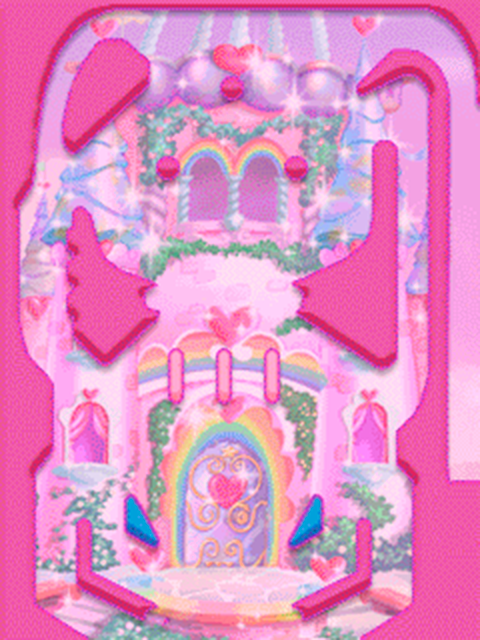
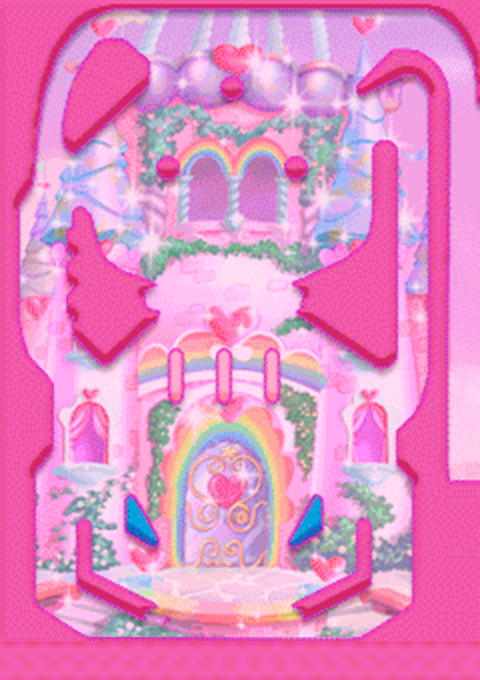
Score changes, clean up done and mouse joint done

diff --git a/Pinball/ModuleSceneIntro.cpp b/Pinball/ModuleSceneIntro.cpp
@@ -19,7 +19,6 @@ ModuleSceneIntro::ModuleSceneIntro(Application* app, bool start_enabled) : Modul
 	sHeart = SDL_Rect{ 274,277,24,24 };
 	sBarrier = SDL_Rect{ 41,0,18,46 };
 	sBluePoint = SDL_Rect{ 68,48,16,16 };
-	circle = box = rick = NULL;
 	ray_on = false;
 	sensed = false;
 }
@@ -35,24 +34,21 @@ bool ModuleSceneIntro::Start()
 
 	App->renderer->camera.x = App->renderer->camera.y = 0;
 
-	/*circle = App->textures->Load("pinball/wheel.png"); 
-	box = App->textures->Load("pinball/crate.png");
-	rick = App->textures->Load("pinball/rick_head.png");
-	bonus_fx = App->audio->LoadFx("pinball/bonus.wav");*/
 
 	background = App->textures->Load("pinball/Background.png");
 	spritesheet = App->textures->Load("pinball/Spritesheet.png");
 	spriteball = App->textures->Load("pinball/Spriteball.png");
+	scTexture = App->textures->Load("pinball/Score.png");
 	scoreFont = App->fonts->Load("pinball/font.png", "0123456789", 1);
 	playAgain = App->textures->Load("pinball/playAgain.png");
-	//sensor = App->physics->CreateRectangleSensor(SCREEN_WIDTH / 2, SCREEN_HEIGHT, SCREEN_WIDTH, 50);
+
 	ball = App->physics->CreateCircle(464, 400, 8);
 
 	hearts = 3;
 
-	sensorBluePoint1 = App->physics->CreateRectangleSensor(202, 378, 5, 5);
+	sensorBluePoint1 = App->physics->CreateRectangleSensor(200, 376, 5, 5);
 	sensorBluePoint1->listener = this;
-	sensorBluePoint2 = App->physics->CreateRectangleSensor(250, 378, 5, 5);
+	sensorBluePoint2 = App->physics->CreateRectangleSensor(248, 376, 5, 5);
 	sensorBluePoint2->listener = this;
 
 	//----------------------BUMPERS---------------------
@@ -193,7 +189,12 @@ bool ModuleSceneIntro::Start()
 bool ModuleSceneIntro::CleanUp()
 {
 	LOG("Unloading Intro scene");
-
+	App->textures->Unload(background);
+	App->textures->Unload(spritesheet);
+	App->textures->Unload(spriteball);
+	App->textures->Unload(scTexture);
+	App->textures->Unload(playAgain);
+	App->fonts->UnLoad(scoreFont);
 	return true;
 }
 
@@ -250,10 +251,20 @@ update_status ModuleSceneIntro::Update()
 			App->physics->RevoluteJointTopLeft.lowerAngle = -15 * DEGTORAD;
 
 		}
-		if (App->input->GetKey(SDL_SCANCODE_R) == KEY_REPEAT)
+
+		//input to restart a ball
+		if (App->input->GetKey(SDL_SCANCODE_R) == KEY_DOWN)
 		{
 			ball->body->GetWorld()->DestroyBody(ball->body);
 			ball = App->physics->CreateCircle(464, 400, 8);
+		}
+
+		//input to lose a heart
+		if (App->input->GetKey(SDL_SCANCODE_L) == KEY_DOWN)
+		{
+			ball->body->GetWorld()->DestroyBody(ball->body);
+			ball = App->physics->CreateCircle(464, 400, 8);
+			hearts=0;
 		}
 
 	}
@@ -262,13 +273,11 @@ update_status ModuleSceneIntro::Update()
 		{
 			hearts = 3;
 			nohearts = false;
+			if (score > highScore) highScore = score;
+			prevScore = score;
 			score = 0;
 		}
 	}
-
-	//Print Score
-	sprintf_s(scoreText, 10, "%1d", score);
-	App->fonts->BlitText(-15, 5, scoreFont, scoreText);
 
 	int Background[102] = {
 			480, 477,
@@ -489,8 +498,8 @@ update_status ModuleSceneIntro::Update()
 		280, 355,
 		272, 349,
 	};
-
-	if ((ball->body->GetPosition().x * 50) > 428) sceneElements.add(App->physics->CreateChain(0, 0, Background, 102));
+	
+	if (METERS_TO_PIXELS(ball->body->GetPosition().x) > 428) sceneElements.add(App->physics->CreateChain(0, 0, Background, 102));
 	else sceneElements.add(App->physics->CreateChain(0, 0, BackgroundBarrier, 88));
 	sceneElements.add(App->physics->CreateChain(0, 0, Background1, 26));
 	sceneElements.add(App->physics->CreateChain(0, 0, Background2, 38));
@@ -554,8 +563,23 @@ update_status ModuleSceneIntro::Update()
 	if (hearts==0)
 	{
 		App->renderer->Blit(playAgain, 40, 140);
+		App->fonts->BlitText(170, 265, scoreFont, scoreText);
 		nohearts = true;
 	}
+
+	//print score
+	App->renderer->Blit(scTexture, 0, 640);
+
+	sprintf_s(scoreText, 10, "%1d", score);
+	if (hearts != 0) App->fonts->BlitText(-15, 5, scoreFont, scoreText);
+	
+	sprintf_s(highScoreText, 10, "%1d", highScore);
+	App->fonts->BlitText(75, 649, scoreFont, highScoreText);
+	
+	sprintf_s(prevScoreText, 10, "%1d", prevScore);
+	App->fonts->BlitText(325, 649, scoreFont, prevScoreText);
+
+
 	// Prepare for raycast ------------------------------------------------------
 	
 	iPoint mouse;
@@ -564,35 +588,6 @@ update_status ModuleSceneIntro::Update()
 	int ray_hit = ray.DistanceTo(mouse);
 
 	fVector normal(0.0f, 0.0f);
-
-	// All draw functions ------------------------------------------------------
-	p2List_item<PhysBody*>* c = circles.getFirst();
-
-	while(c != NULL)
-	{
-		int x, y;
-		c->data->GetPosition(x, y);
-		if(c->data->Contains(App->input->GetMouseX(), App->input->GetMouseY()))
-			App->renderer->Blit(circle, x, y, NULL, 1.0f, c->data->GetRotation());
-		c = c->next;
-	}
-
-	c = boxes.getFirst();
-
-	while(c != NULL)
-	{
-		int x, y;
-		c->data->GetPosition(x, y);
-		App->renderer->Blit(box, x, y, NULL, 1.0f, c->data->GetRotation());
-		if(ray_on)
-		{
-			int hit = c->data->RayCast(ray.x, ray.y, mouse.x, mouse.y, normal.x, normal.y);
-			if(hit >= 0)
-				ray_hit = hit;
-		}
-		c = c->next;
-	}
-
 
 	//// ray -----------------
 	if(ray_on == true)
@@ -607,12 +602,6 @@ update_status ModuleSceneIntro::Update()
 			App->renderer->DrawLine(ray.x + destination.x, ray.y + destination.y, ray.x + destination.x + normal.x * 25.0f, ray.y + destination.y + normal.y * 25.0f, 100, 255, 100);
 	}
 
-	return UPDATE_CONTINUE;
-}
-
-update_status ModuleSceneIntro::PostUpdate()
-{
-	
 	return UPDATE_CONTINUE;
 }
 

diff --git a/Pinball/ModulePhysics.cpp b/Pinball/ModulePhysics.cpp
@@ -293,7 +293,7 @@ PhysBody* ModulePhysics::CreateStaticCircle(int x, int y, int radius)
 	body.type = b2_staticBody;
 	body.position.Set(PIXEL_TO_METERS(x), PIXEL_TO_METERS(y));
 
-	joint1 = world->CreateBody(&body);
+	Joint1 = world->CreateBody(&body);
 
 	b2CircleShape shape;
 	shape.m_radius = PIXEL_TO_METERS(radius);
@@ -301,11 +301,11 @@ PhysBody* ModulePhysics::CreateStaticCircle(int x, int y, int radius)
 	fixture.shape = &shape;
 	fixture.density = 1.0f;
 
-	joint1->CreateFixture(&fixture);
+	Joint1->CreateFixture(&fixture);
 
 	PhysBody* pbody = new PhysBody();
-	pbody->body = joint1;
-	joint1->SetUserData(pbody);
+	pbody->body = Joint1;
+	Joint1->SetUserData(pbody);
 	pbody->width = pbody->height = radius;
 
 	return pbody;
@@ -322,6 +322,8 @@ update_status ModulePhysics::PostUpdate()
 
 	// Bonus code: this will iterate all objects in the world and draw the circles
 	// You need to provide your own macro to translate meters to pixels
+
+	b2Vec2 mousePosition(PIXEL_TO_METERS(App->input->GetMouseX()), PIXEL_TO_METERS(App->input->GetMouseY()));
 	for(b2Body* b = world->GetBodyList(); b; b = b->GetNext())
 	{
 		for(b2Fixture* f = b->GetFixtureList(); f; f = f->GetNext())
@@ -389,10 +391,13 @@ update_status ModulePhysics::PostUpdate()
 				}
 				break;
 			}
-
 			// TODO 1: If mouse button 1 is pressed ...
 			// App->input->GetMouseButton(SDL_BUTTON_LEFT) == KEY_DOWN
 			// test if the current body contains mouse position
+			if (App->input->GetMouseButton(SDL_BUTTON_LEFT) == KEY_DOWN && bodyClicked == nullptr && f->GetShape()->TestPoint(b->GetTransform(), mousePosition))
+			{
+				bodyClicked = b;
+			}
 		}
 	}
 
@@ -400,12 +405,38 @@ update_status ModulePhysics::PostUpdate()
 	// so we can pull it around
 	// TODO 2: If a body was selected, create a mouse joint
 	// using mouse_joint class property
-
-
 	// TODO 3: If the player keeps pressing the mouse button, update
 	// target position and draw a red line between both anchor points
-
 	// TODO 4: If the player releases the mouse button, destroy the joint
+
+	if (bodyClicked != nullptr)
+	{
+		if (!jointCreated) {
+			b2MouseJointDef def;
+			def.bodyA = ground;
+			def.bodyB = bodyClicked;
+			def.target = mousePosition;
+			def.dampingRatio = 0.5f;
+			def.frequencyHz = 2.0f;
+			def.maxForce = 100.0f * bodyClicked->GetMass();
+			mouse_joint = (b2MouseJoint*)world->CreateJoint(&def);
+			jointCreated = true;
+		}
+		else
+		{
+			mouse_joint->SetTarget(mousePosition);
+			App->renderer->DrawLine(METERS_TO_PIXELS(mouse_joint->GetBodyB()->GetPosition().x), METERS_TO_PIXELS(mouse_joint->GetBodyB()->GetPosition().y), App->input->GetMouseX(), App->input->GetMouseY(), 0, 0, 255);
+		}
+
+		if (App->input->GetMouseButton(SDL_BUTTON_LEFT) == KEY_UP)
+		{
+			world->DestroyJoint(mouse_joint);
+			mouse_joint = nullptr;
+			bodyClicked = nullptr;
+			jointCreated = false;
+		}
+
+	}
 
 	return UPDATE_CONTINUE;
 }

diff --git a/Pinball/ModuleSceneIntro.h b/Pinball/ModuleSceneIntro.h
@@ -16,7 +16,6 @@ public:
 
 	bool Start();
 	update_status Update();
-	update_status PostUpdate();
 	bool CleanUp();
 	void OnCollision(PhysBody* bodyA, PhysBody* bodyB);
 
@@ -25,8 +24,13 @@ public:
 	int framesToSec = 0;
 
 	int scoreFont = 0;
+
 	int score = 0;
 	char scoreText[10];
+	int highScore = 0;
+	char highScoreText[10];
+	int prevScore = 0;
+	char prevScoreText[10];
 
 	int hearts;
 	bool nohearts = false;
@@ -51,9 +55,7 @@ public:
 	SDL_Texture* playAgain;
 	SDL_Texture* spritesheet;
 	SDL_Texture* spriteball;
-	SDL_Texture* circle;
-	SDL_Texture* box;
-	SDL_Texture* rick;
+	SDL_Texture* scTexture;
 	uint bonus_fx;
 	p2Point<int> ray;
 	bool ray_on;

diff --git a/Pinball/ModulePhysics.h b/Pinball/ModulePhysics.h
@@ -66,7 +66,7 @@ public:
 	PhysBody* rightTopFlipper;
 	PhysBody* rightTopJoint;
 
-	b2Body* joint1;
+	b2Body* Joint1;
 	b2Body* Flipper1;
 
 	b2PrismaticJointDef PrismaticJointKicker;
@@ -83,7 +83,9 @@ public:
 private:
 
 	bool debug;
-	
-	b2MouseJoint* mouse_joint;
 	b2Body* ground;
+
+	b2MouseJoint* mouse_joint;
+	b2Body* bodyClicked = nullptr;
+	bool jointCreated = false;
 };

diff --git a/Pinball/Globals.h b/Pinball/Globals.h
@@ -22,7 +22,7 @@ enum update_status
 
 // Configuration -----------
 #define SCREEN_WIDTH 480
-#define SCREEN_HEIGHT 640
+#define SCREEN_HEIGHT 680
 #define SCREEN_SIZE 1
 #define WIN_FULLSCREEN false
 #define WIN_RESIZABLE false
